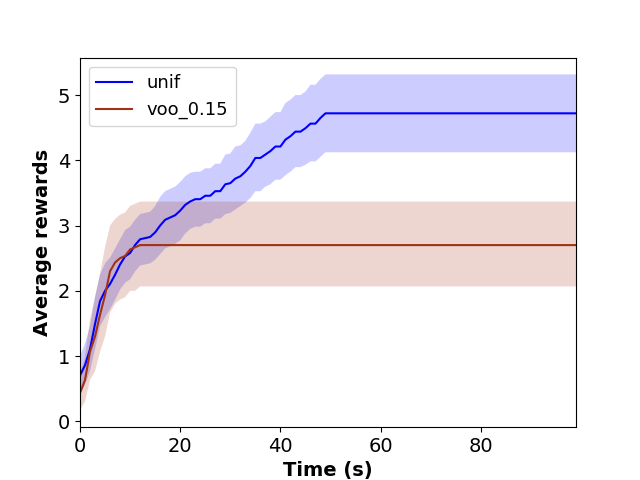
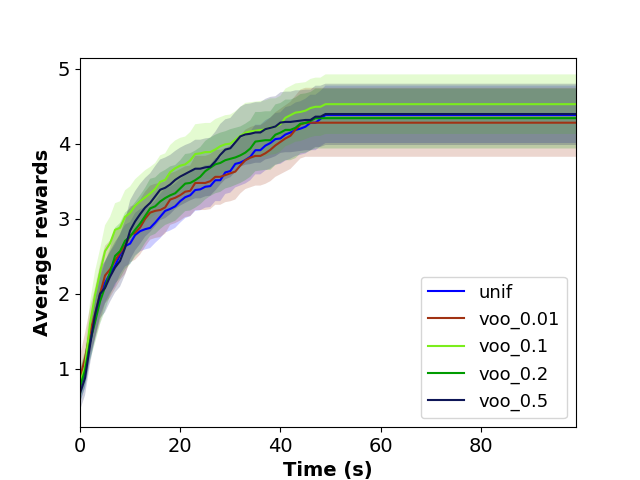
changing the distance functions

diff --git a/mover_library/utils.py b/mover_library/utils.py
@@ -431,8 +431,9 @@ def pick_distance(a1, a2, curr_obj):
     grasp_max_diff = [1/2.356, 1., 1.]
     grasp_distance = np.sum( np.dot(abs(grasp_a1 - grasp_a2), grasp_max_diff))
 
-    bas_distance_max_diff = np.array([1./(2*2.51), 1./(2*2.51), 1/np.pi])
-    base_distance = np.sum(np.dot(base_conf_diff(base_a1, base_a2), bas_distance_max_diff))
+    #bas_distance_max_diff = np.array([1./(2*2.51), 1./(2*2.51), 1/np.pi])
+    base_distance_max_diff = np.array([1, 1, 1/np.pi])
+    base_distance = np.sum(np.dot(base_conf_diff(base_a1, base_a2), base_distance_max_diff))
 
     # base distance more important the grasp
     return grasp_distance + 2*base_distance
@@ -452,7 +453,7 @@ def place_distance(a1, a2, curr_obj):
     base_a2 = clean_pose_data(np.array(base_a2)).squeeze()
 
     base_distance_max_diff = np.array([1. / (2*2.51), 1. / (2*2.51), 1 / np.pi])
-    base_distance_max_diff = np.array([1., 1., 1])
+    base_distance_max_diff = np.array([1., 1., 1/np.pi])
     base_distance = np.sum(np.dot(base_conf_diff(base_a1, base_a2), base_distance_max_diff))
 
     return base_distance

diff --git a/plotters/plot_planners.py b/plotters/plot_planners.py
@@ -20,6 +20,7 @@ def savefig(xlabel,ylabel,fname=''):
   print 'Saving figure ', fname+'.png'
   plt.savefig(fname+'.png', dpi=100,format='png')
 
+
 def get_stripstream_results(domain_name):
     if domain_name == 'convbelt':
         result_dir = './test_results/convbelt_results/stripstream/'
@@ -49,6 +50,7 @@ def get_result_dir(domain_name, algo_name):
         epsilon = algo_name.split('_')[1]
         algo_name = algo_name.split('_')[0]
         rootdir = '/home/beomjoon/Dropbox (MIT)/braincloud/gtamp_results/test_results/'
+        #rootdir = './test_results/'
     else:
         rootdir = '/home/beomjoon/Dropbox (MIT)/braincloud/gtamp_results/test_results/'
         rootdir = './test_results/'
@@ -172,7 +174,7 @@ def main():
     if args.domain == 'namo':
         algo_names = ['unif', 'voo_0.001', 'voo_0.05', 'voo_0.7', 'voo_0.3']
     else:
-        algo_names = ['unif', 'voo_0.15']
+        algo_names = ['unif', 'voo_0.01', 'voo_0.1', 'voo_0.2', 'voo_0.5']
 
 
     color_dict = pickle.load(open('./plotters/color_dict.p', 'r'))
